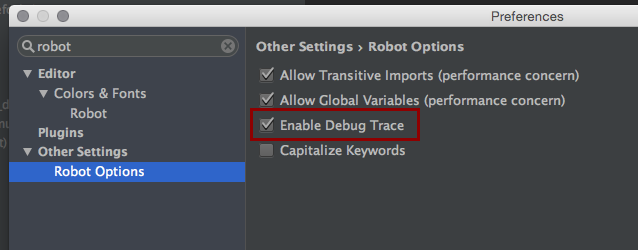
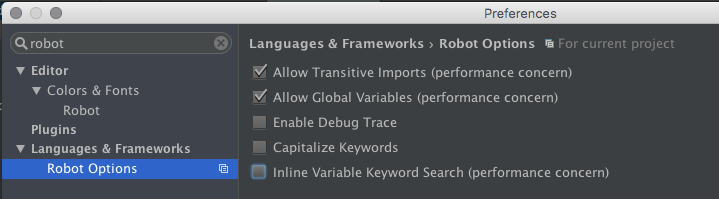
add option to disable/enable inline variable searching

Changed region(s): [[0.0, 0.0, 1.0, 1.0]]

diff --git a/src/com/millennialmedia/intellibot/ide/config/RobotConfiguration.java b/src/com/millennialmedia/intellibot/ide/config/RobotConfiguration.java
@@ -22,6 +22,7 @@ public class RobotConfiguration implements SearchableConfigurable, Configurable.
     private JCheckBox allowTransitiveImports;
     private JCheckBox allowGlobalVariables;
     private JCheckBox capitalizeKeywords;
+    private JCheckBox inlineVariableSearch;
 
     public RobotConfiguration(@NotNull RobotOptionsProvider provider) {
         this.provider = provider;
@@ -62,7 +63,8 @@ public class RobotConfiguration implements SearchableConfigurable, Configurable.
         return this.provider.isDebug() != this.enableDebug.isSelected() ||
                 this.provider.allowTransitiveImports() != this.allowTransitiveImports.isSelected() ||
                 this.provider.allowGlobalVariables() != this.allowGlobalVariables.isSelected() ||
-                this.provider.capitalizeKeywords() != this.capitalizeKeywords.isSelected();
+                this.provider.capitalizeKeywords() != this.capitalizeKeywords.isSelected() ||
+                this.provider.inlineVariableSearch() != this.inlineVariableSearch.isSelected();
     }
 
     @Override
@@ -71,6 +73,7 @@ public class RobotConfiguration implements SearchableConfigurable, Configurable.
         this.provider.setTransitiveImports(this.allowTransitiveImports.isSelected());
         this.provider.setGlobalVariables(this.allowGlobalVariables.isSelected());
         this.provider.setCapitalizeKeywords(this.capitalizeKeywords.isSelected());
+        this.provider.setInlineVariableSearch(this.inlineVariableSearch.isSelected());
     }
 
     @Override
@@ -79,6 +82,7 @@ public class RobotConfiguration implements SearchableConfigurable, Configurable.
         this.allowTransitiveImports.setSelected(this.provider.allowTransitiveImports());
         this.allowGlobalVariables.setSelected(this.provider.allowGlobalVariables());
         this.capitalizeKeywords.setSelected(this.provider.capitalizeKeywords());
+        this.inlineVariableSearch.setSelected(this.provider.inlineVariableSearch());
     }
 
     @Override

diff --git a/src/com/millennialmedia/intellibot/ide/config/RobotOptionsProvider.java b/src/com/millennialmedia/intellibot/ide/config/RobotOptionsProvider.java
@@ -21,6 +21,7 @@ public class RobotOptionsProvider implements PersistentStateComponent<RobotOptio
         public boolean globalVariables = true;
         public boolean debug = false;
         public boolean capitalizeKeywords = false;
+        public boolean inlineVariableSearch = false;
     }
 
     private State state = new State();
@@ -41,6 +42,7 @@ public class RobotOptionsProvider implements PersistentStateComponent<RobotOptio
         this.state.transitiveImports = state.transitiveImports;
         this.state.globalVariables = state.globalVariables;
         this.state.capitalizeKeywords = state.capitalizeKeywords;
+        this.state.inlineVariableSearch = state.inlineVariableSearch;
     }
 
     public boolean isDebug() {
@@ -73,5 +75,13 @@ public class RobotOptionsProvider implements PersistentStateComponent<RobotOptio
 
     public void setCapitalizeKeywords(boolean capitalizeKeywords) {
         this.state.capitalizeKeywords = capitalizeKeywords;
+    }
+
+    public boolean inlineVariableSearch() {
+        return this.state.inlineVariableSearch;
+    }
+
+    public void setInlineVariableSearch(boolean inlineVariableSearch) {
+        this.state.inlineVariableSearch = inlineVariableSearch;
     }
 }

diff --git a/src/com/millennialmedia/intellibot/ide/search/RobotPythonReferenceSearch.java b/src/com/millennialmedia/intellibot/ide/search/RobotPythonReferenceSearch.java
@@ -7,6 +7,7 @@ import com.intellij.psi.*;
 import com.intellij.psi.search.*;
 import com.intellij.psi.search.searches.ReferencesSearch;
 import com.intellij.util.Processor;
+import com.millennialmedia.intellibot.ide.config.RobotOptionsProvider;
 import com.millennialmedia.intellibot.psi.RobotFeatureFileType;
 import com.millennialmedia.intellibot.psi.element.KeywordDefinition;
 import com.millennialmedia.intellibot.psi.element.KeywordInvokable;
@@ -44,7 +45,8 @@ public class RobotPythonReferenceSearch extends QueryExecutorBase<PsiReference, 
         if (element instanceof PsiNameIdentifierOwner) {
             if (element instanceof KeywordDefinition) {
                 KeywordDefinition definition = (KeywordDefinition) element;
-                boolean enableInlineSearch = true;
+                // this should really be part of the search options
+                boolean enableInlineSearch = RobotOptionsProvider.getInstance(params.getProject()).inlineVariableSearch();
                 if (definition.hasInlineVariables() && (localScope || enableInlineSearch)) {
                     processKeywordWithInline(definition, searchScope, processor, params.getProject());
                 } else {

diff --git a/src/com/millennialmedia/intellibot/ide/usage/RobotFindUsagesProvider.java b/src/com/millennialmedia/intellibot/ide/usage/RobotFindUsagesProvider.java
@@ -45,14 +45,15 @@ public class RobotFindUsagesProvider implements FindUsagesProvider {
     @NotNull
     @Override
     public String getDescriptiveName(@NotNull PsiElement element) {
+        // this is what appears in the find usages dialog
         if (element instanceof KeywordDefinition) {
-            return "Keyword";
+            return "keyword";
         } else if (element instanceof VariableDefinition) {
-            return "Variable";
+            return "variable";
         } else if (element instanceof RobotFile) {
-            return "Import";
+            return "import";
         } else if (element instanceof Argument) {
-            return "TODO";
+            return "argument";
         }
         return "";
     }
